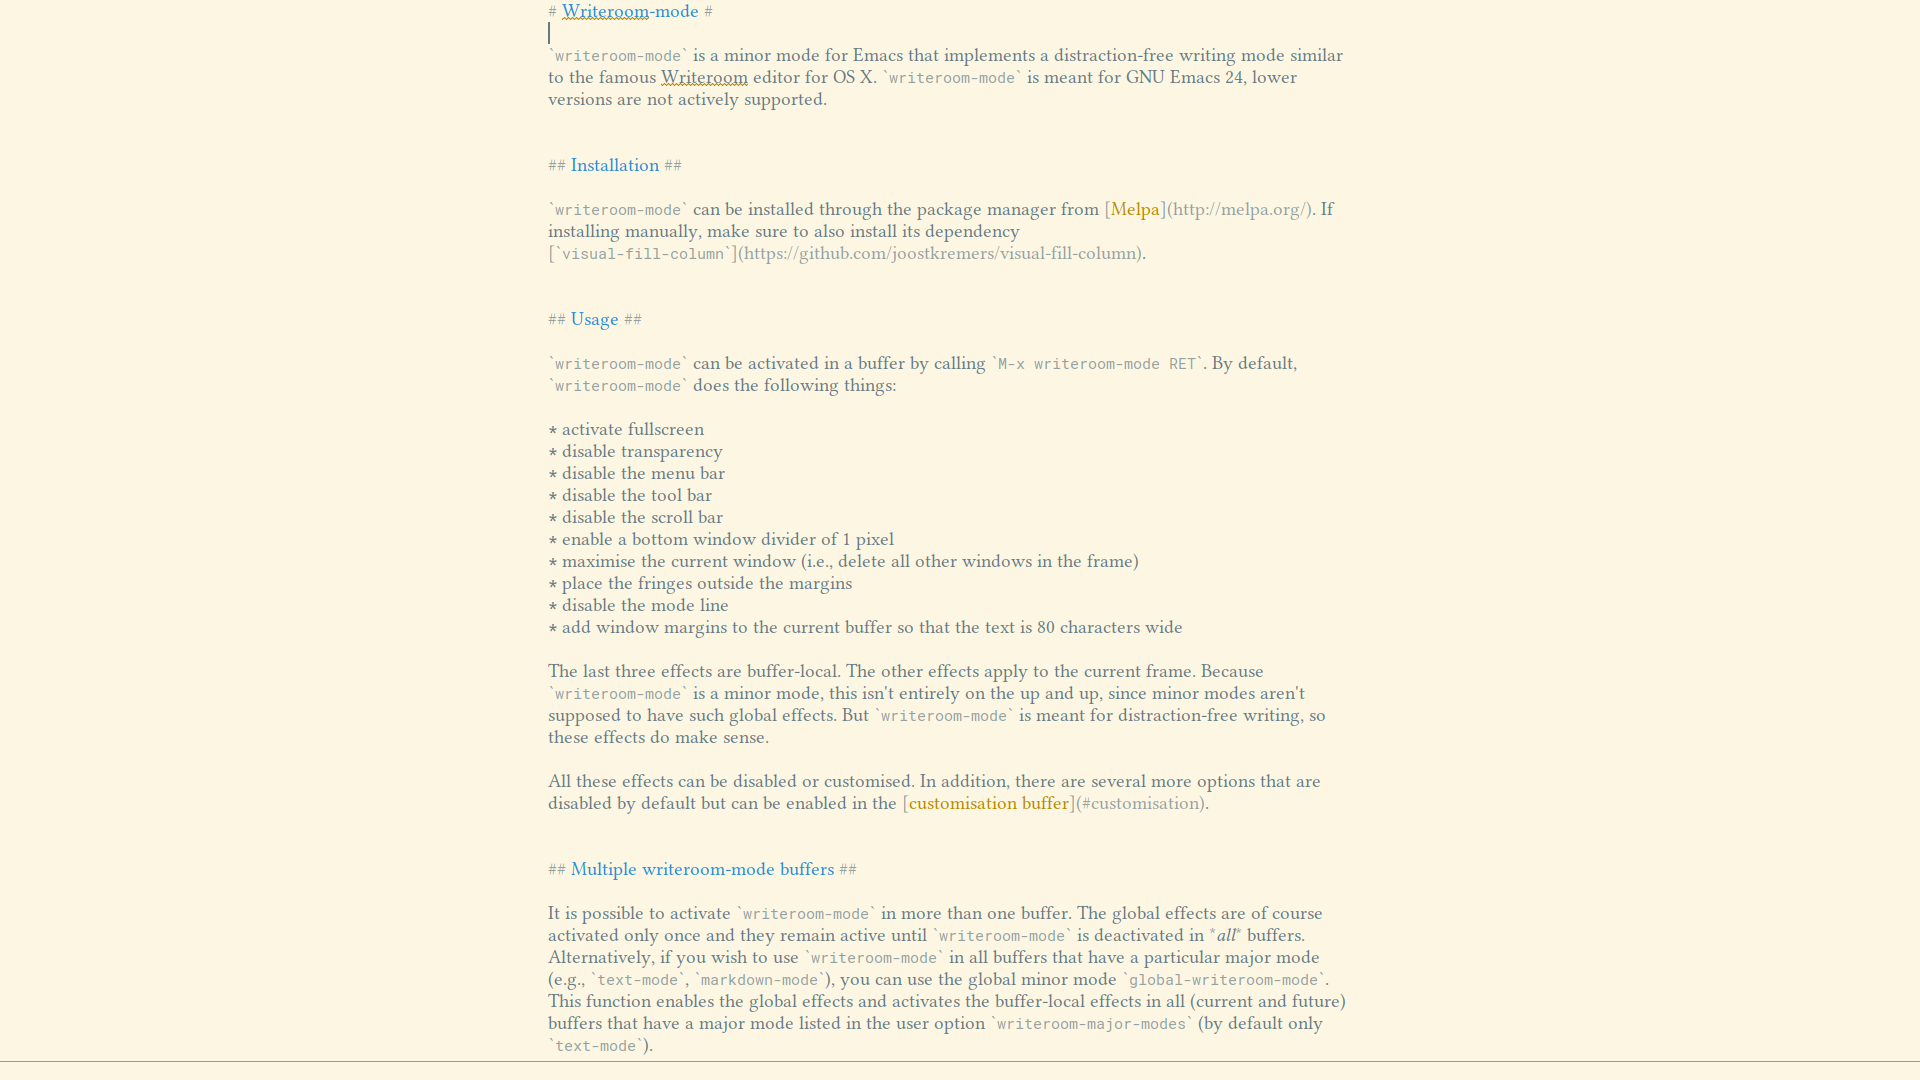
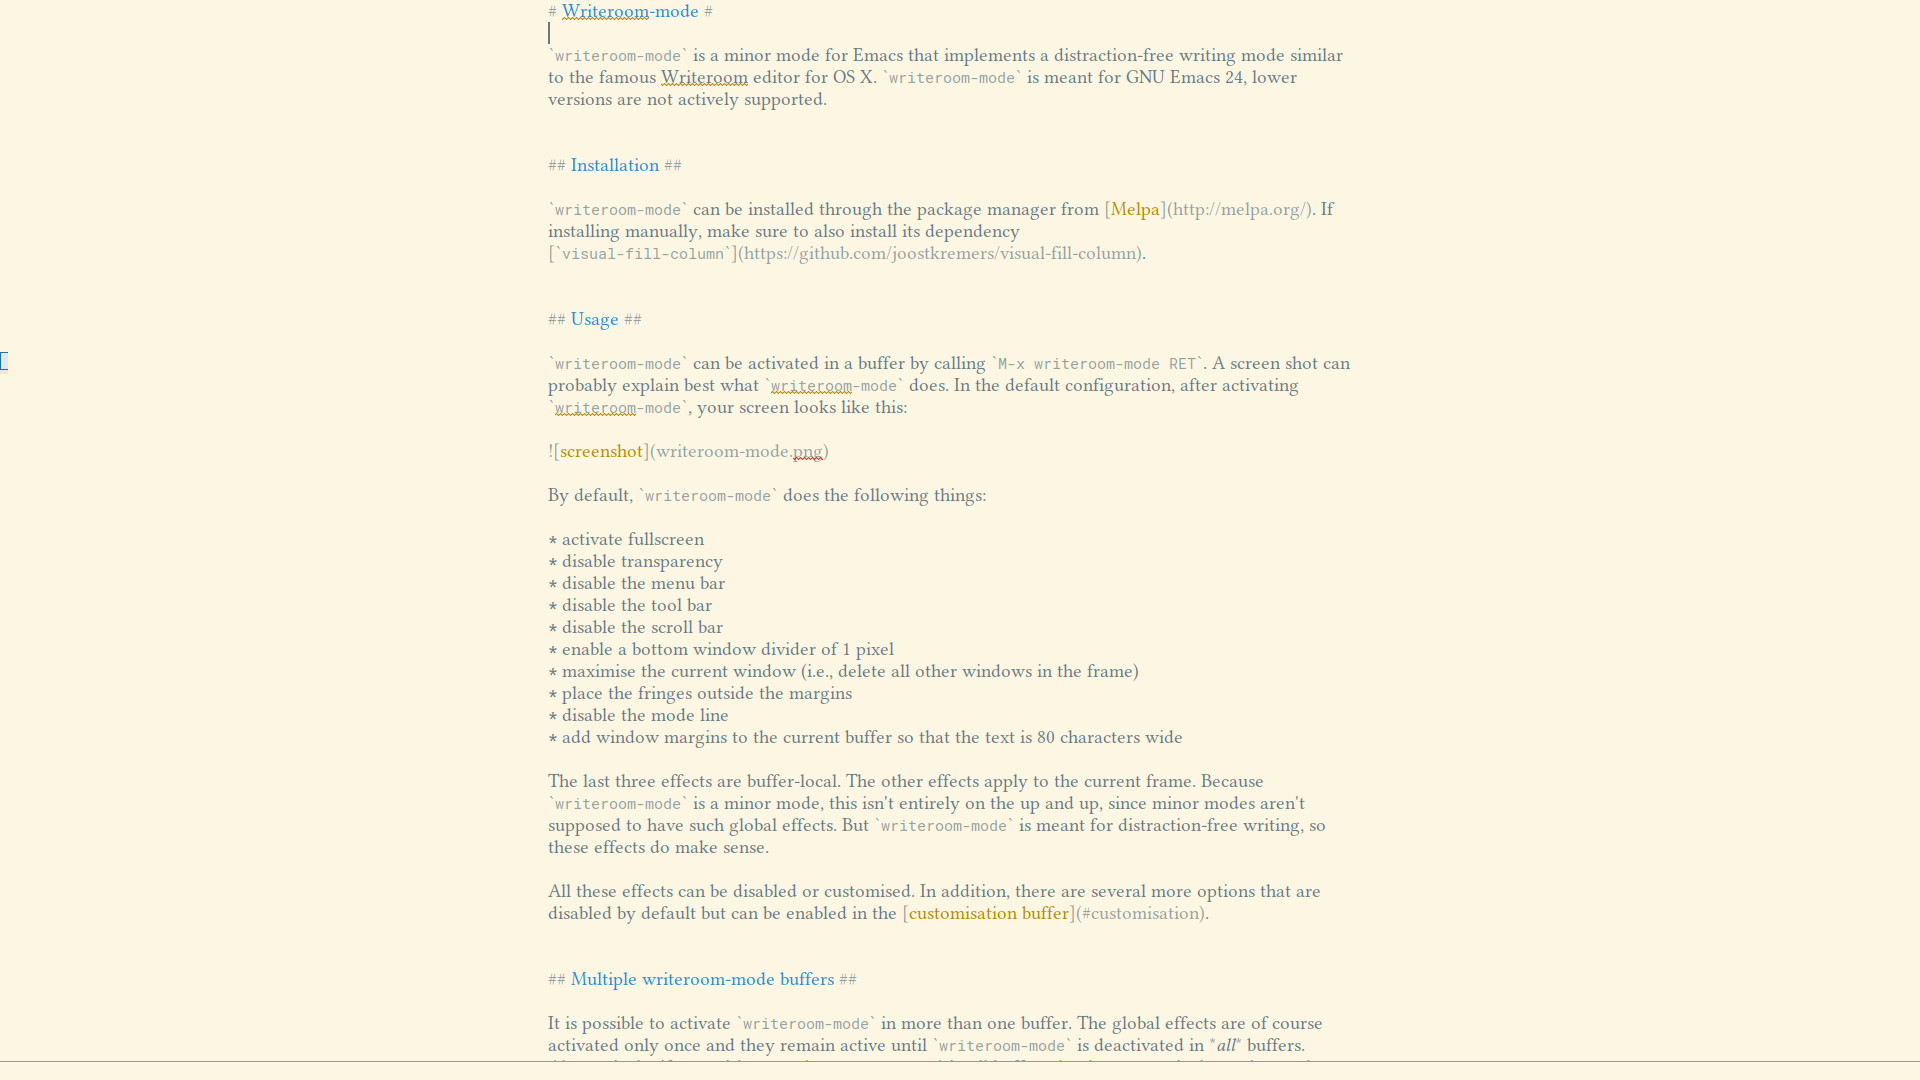
Update screen shot and README.md

Changed region(s): [[0.2812, 0.3361, 0.6875, 0.9778], [0.5, 0.5194, 0.5312, 0.55], [0.4688, 0.4583, 0.5, 0.4889]]

diff --git a/README.md b/README.md
@@ -10,7 +10,7 @@
 
 ## Usage ##
 
-`writeroom-mode` can be activated in a buffer by calling `M-x writeroom-mode RET`. A screen shot can probably explain best what `writeroom-mode` does:
+`writeroom-mode` can be activated in a buffer by calling `M-x writeroom-mode RET`. A screen shot can probably explain best what `writeroom-mode` does. In the default configuration, after activating `writeroom-mode`, your screen looks like this:
 
 ![screenshot](writeroom-mode.png)
 
